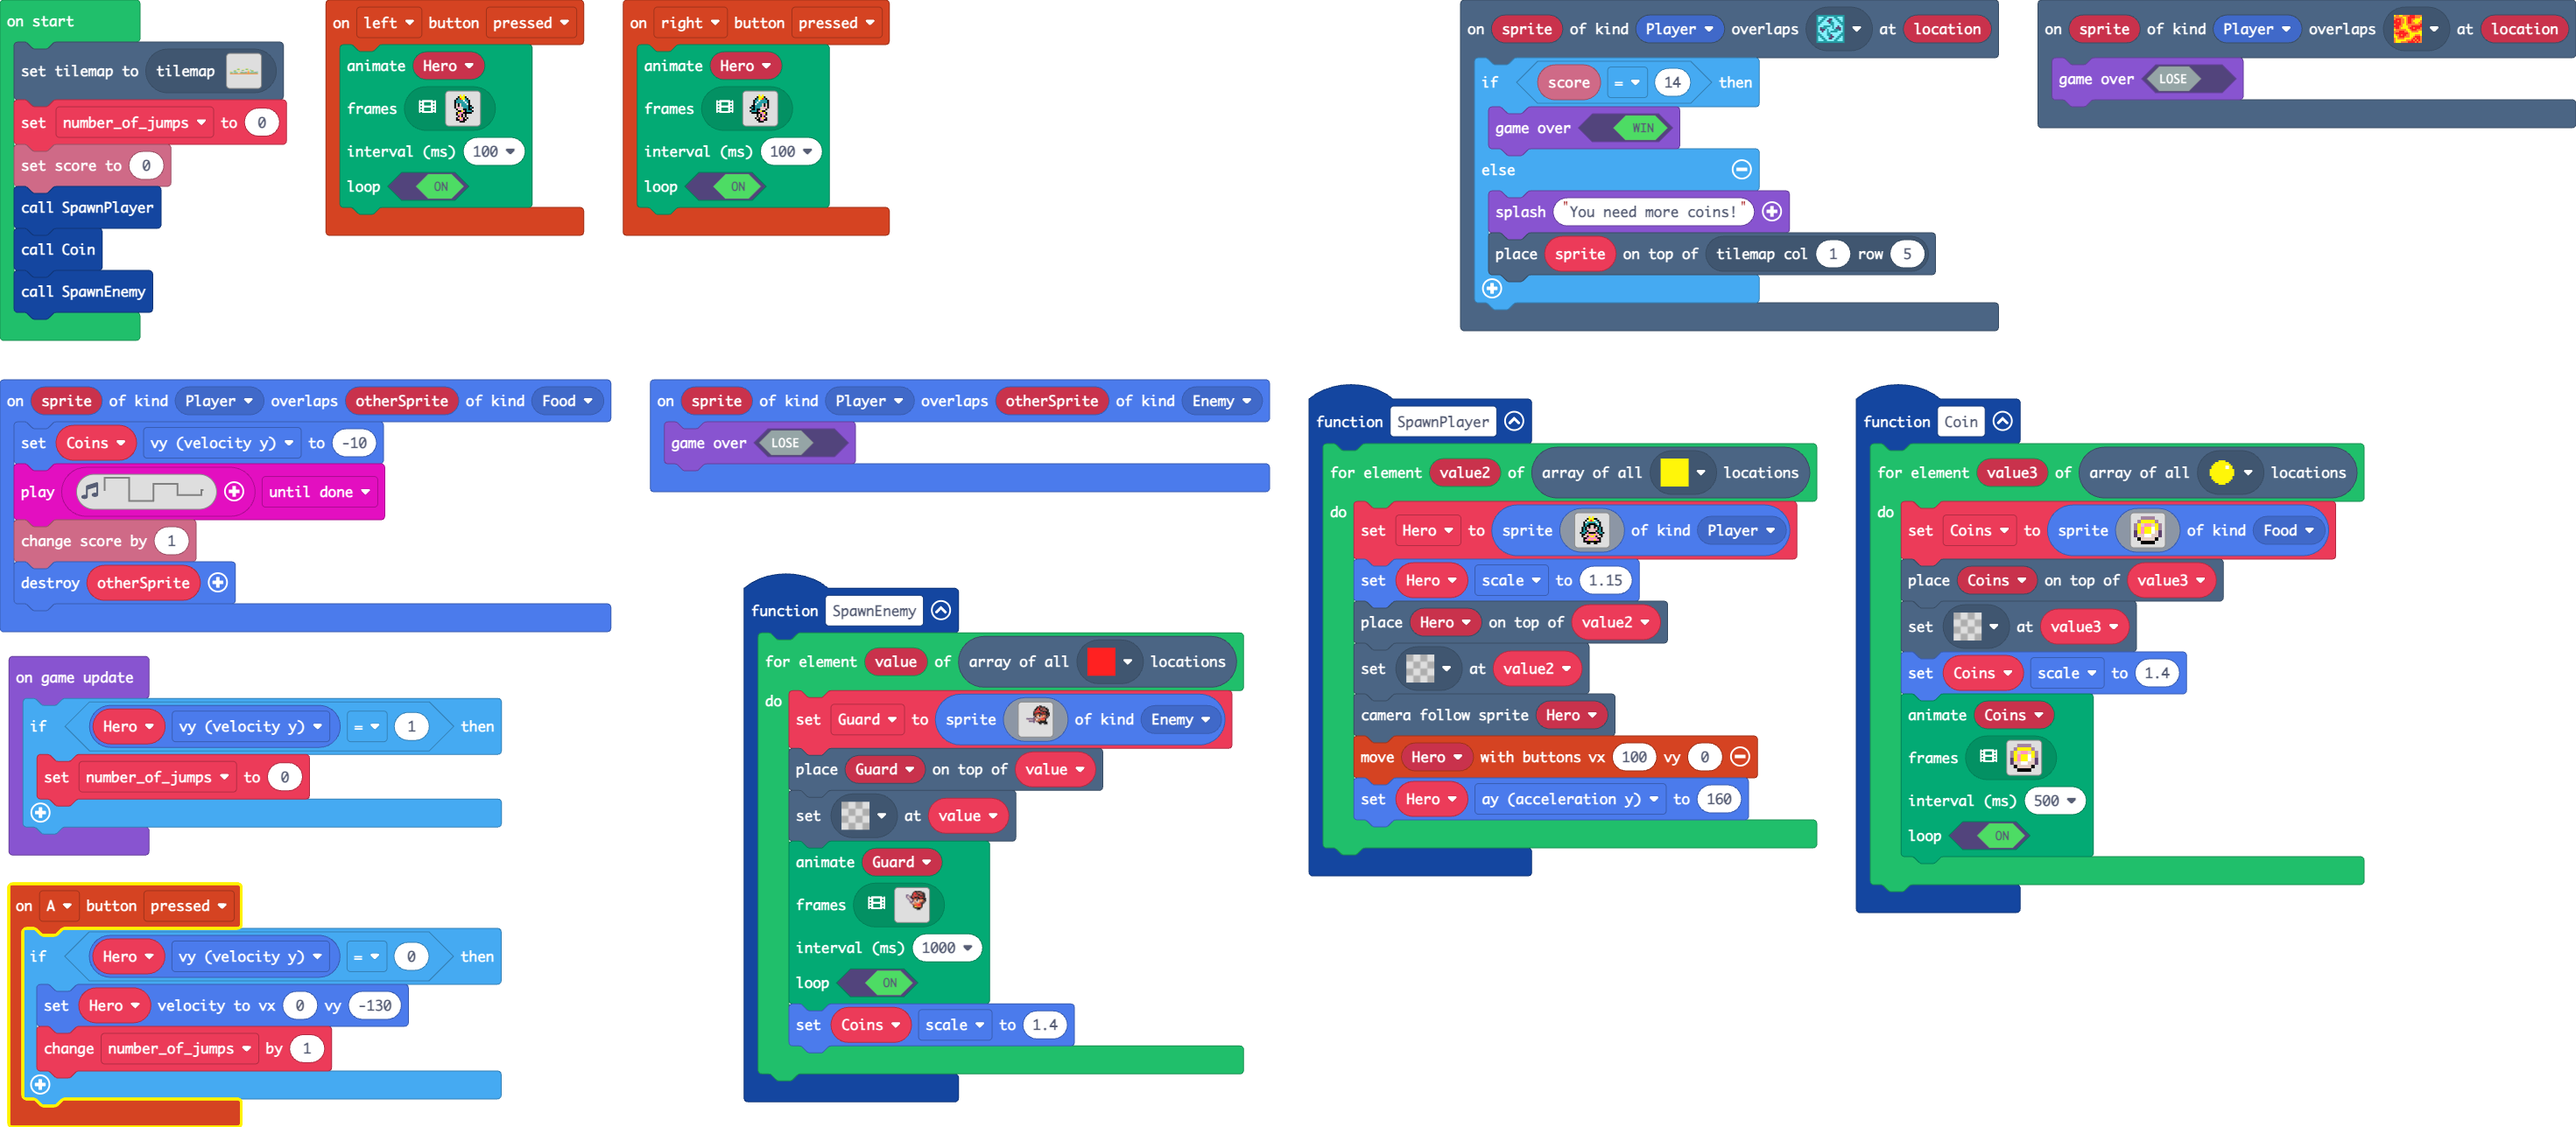
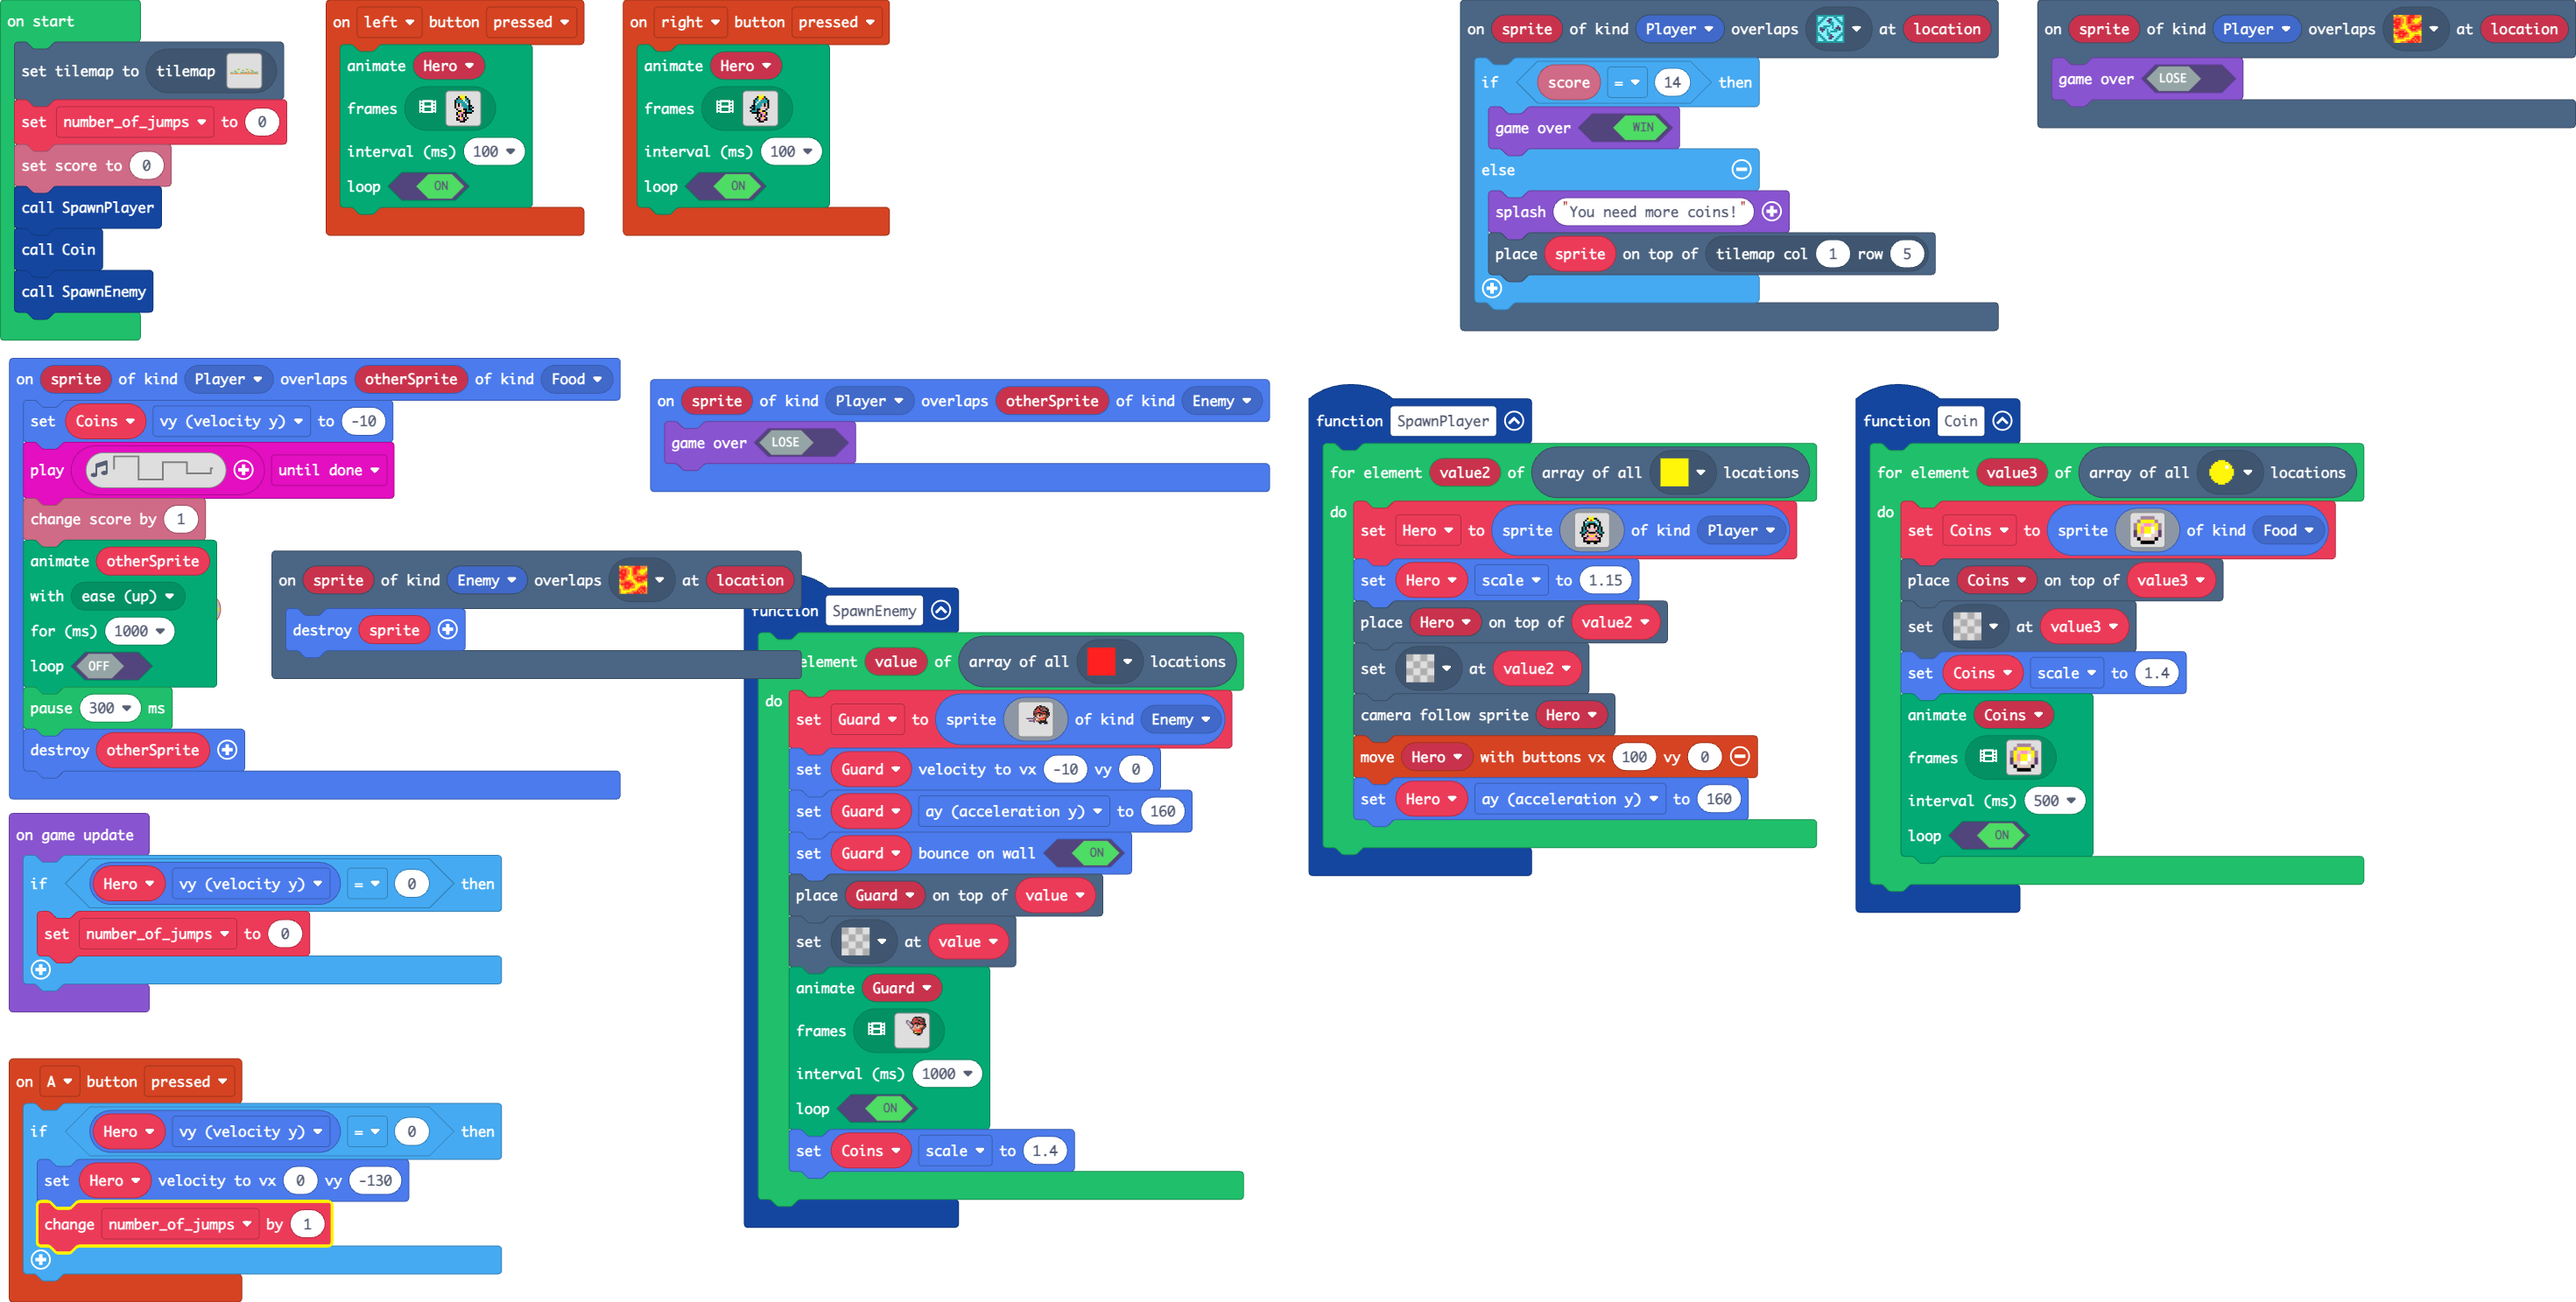
Update main.blocks, main.ts, tilemap.g.jres, tilemap.g.ts

diff --git a/tilemap.g.ts b/tilemap.g.ts
@@ -55,6 +55,25 @@ namespace myTiles {
 ..................................................
 ..................................................
 `, [myTiles.transparency16,myTiles.tile1,myTiles.tile2,myTiles.tile3,myTiles.tile4,myTiles.tile5,myTiles.tile8], TileScale.Sixteen);
+            case "level3":
+            case "level3":return tiles.createTilemap(hex`1000100000000000000000000000000000000000000000000000000000000000000000000000000000000000000000000000000000000000000000000000000000000000000000000000000000000000000000000000000000000000000000000000000000000000000000000000000000000000000000000000000000000000000000000000000000000000000000000000000000000000000000000000000000000000000000000000000000000000000000000000000000000000000000000000000000000000000000000000000000000000000000000000000000000000000000000000000000000000000000000000000000000000000000000000000000000000`, img`
+. . . . . . . . . . . . . . . . 
+. . . . . . . . . . . . . . . . 
+. . . . . . . . . . . . . . . . 
+. . . . . . . . . . . . . . . . 
+. . . . . . . . . . . . . . . . 
+. . . . . . . . . . . . . . . . 
+. . . . . . . . . . . . . . . . 
+. . . . . . . . . . . . . . . . 
+. . . . . . . . . . . . . . . . 
+. . . . . . . . . . . . . . . . 
+. . . . . . . . . . . . . . . . 
+. . . . . . . . . . . . . . . . 
+. . . . . . . . . . . . . . . . 
+. . . . . . . . . . . . . . . . 
+. . . . . . . . . . . . . . . . 
+. . . . . . . . . . . . . . . . 
+`, [myTiles.transparency16], TileScale.Sixteen);
         }
         return null;
     })

diff --git a/main.ts b/main.ts
@@ -26,6 +26,9 @@ function SpawnEnemy () {
             ........................
             ........................
             `, SpriteKind.Enemy)
+        Guard.setVelocity(-10, 0)
+        Guard.ay = 160
+        Guard.setBounceOnWall(true)
         tiles.placeOnTile(Guard, value)
         tiles.setTileAt(value, assets.tile`transparency16`)
         animation.runImageAnimation(
@@ -233,6 +236,9 @@ controller.left.onEvent(ControllerButtonEvent.Pressed, function () {
     true
     )
 })
+scene.onOverlapTile(SpriteKind.Enemy, assets.tile`myTile`, function (sprite, location) {
+    sprites.destroy(sprite)
+})
 controller.right.onEvent(ControllerButtonEvent.Pressed, function () {
     animation.runImageAnimation(
     Hero,
@@ -381,6 +387,13 @@ sprites.onOverlap(SpriteKind.Player, SpriteKind.Food, function (sprite, otherSpr
     Coins.vy = -10
     music.play(music.createSoundEffect(WaveShape.Square, 400, 600, 255, 0, 100, SoundExpressionEffect.None, InterpolationCurve.Linear), music.PlaybackMode.UntilDone)
     info.changeScoreBy(1)
+    animation.runMovementAnimation(
+    otherSprite,
+    animation.animationPresets(animation.easeUp),
+    1000,
+    false
+    )
+    pause(300)
     sprites.destroy(otherSprite)
 })
 sprites.onOverlap(SpriteKind.Player, SpriteKind.Enemy, function (sprite, otherSprite) {
@@ -396,7 +409,7 @@ SpawnPlayer()
 Coin()
 SpawnEnemy()
 game.onUpdate(function () {
-    if (Hero.vy == 1) {
+    if (Hero.vy == 0) {
         number_of_jumps = 0
     }
 })
